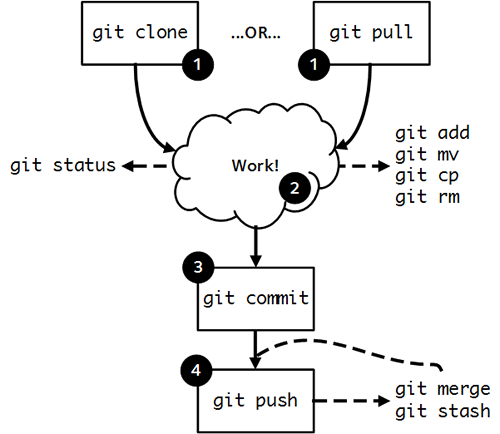
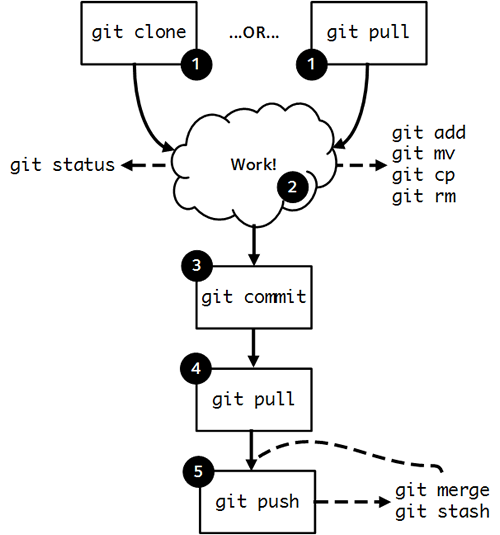
Updating Git chapter

Changed region(s): [[0.0, 0.0, 0.99, 1.0], [0.45, 0.03, 0.57, 0.0899]]

diff --git a/manuscript/chapter-git.md b/manuscript/chapter-git.md
@@ -211,157 +211,64 @@ T> Although frequent commits may be a good thing, you will want to ensure that w
 
 ### 4. Synchronising your Repository
 
-After you've committed your local repository and committed your changes,
-you're just about ready to send your commits to the remote repository by
-*pushing* your changes. However, what if someone within your group
-pushes their changes before you do? This means your local repository
-will be out of sync with the remote repository, making any `git push`
-command very difficult to do!
+After you've committed your local repository and committed your changes, you're just about ready to send your commit(s) to the remote repository by *pushing* your changes. However, what if someone within your group pushes their changes before you do? This means your local repository will be out of sync with the remote repository, meaning that any `git push` command that you issue will fail.
 
-It's therefore always a good idea to check whether changes have been
-made on the remote repository before updating it. Running a `git pull`
-command will pull down any changes from the remote repository, and
-attempt to place them within your local repository. If no changes have
-been made, you're clear to push your changes. If changes have been made
-and cannot be easily rectified, you'll need to do a little bit more
-work.
+It's therefore always a good idea to check whether changes have been made on the remote repository before updating it. Running a `git pull` command will pull down any changes from the remote repository, and attempt to place them within your local repository. If no changes have been made, you're clear to push your changes. If changes have been made and cannot be easily rectified, you'll need to do a little bit more work.
 
-In scenarios such as this, you have the option to *merge* changes from
-the remote repository. After running the `git pull` command, a text
-editor will appear in which you can add a comment explaining why the
-merge is necessary. Upon saving the text document, Git will merge the
-changes in the remote repository to your local repository.
+In scenarios such as this, you have the option to *merge* changes from the remote repository. After running the `git pull` command, a text editor will appear in which you can add a comment explaining why the merge is necessary. Upon saving the text document, Git will merge the changes from the remote repository to your local repository.
 
-> **note**
->
-> If you do see a text editor on your Mac or Linux installation, it's
-> probably the [vi](http://en.wikipedia.org/wiki/Vi) text editor. If
-> you've never used vi before, check out [this helpful page containing a
-> list of basic commands](http://www.cs.colostate.edu/helpdocs/vi.html)
-> on the Colorado State University Computer Science Department website.
-> If you don't like vi, [you can change the default text
-> editor](http://git-scm.com/book/en/Customizing-Git-Git-Configuration#Basic-Client-Configuration)
-> that Git calls upon. Windows installations most likely will bring up
-> Notepad.
+T> ### Editing Merge Logs
+T> If you do see a text editor on your Mac or Linux installation, it's probably the [`vi`](http://en.wikipedia.org/wiki/Vi) text editor. If you've never used vi before, check out [this helpful page containing a list of basic commands](http://www.cs.colostate.edu/helpdocs/vi.html) on the Colorado State University Computer Science Department website. If you don't like vi, [you can change the default text editor](http://git-scm.com/book/en/Customizing-Git-Git-Configuration#Basic-Client-Configuration) that Git calls upon. Windows installations most likely will bring up Notepad.
 
 ### 5. Pushing your Commit(s)
 
-*Pushing* is the phrase used by Git to describe the sending of any
-changes in your local repository to the remote repository. This is the
-way in which your changes become available to your other team members,
-who can then retrieve them by running the `git pull` command in their
-respective local workspaces. The `git push` command isn't invoked as
-often as committing - *you require one or more commits to perform a
-push.* You could aim for one push per day, when a particular feature is
-completed, or at the request of a team member who is desperately after
-your updated code.
+*Pushing* is the phrase used by Git to describe the sending of any changes in your local repository to the remote repository. This is the way in which your changes become available to your other team members, who can then retrieve them by running the `git pull` command in their respective local workspaces. The `git push` command isn't invoked as often as committing - *you require one or more commits to perform a push.* You could aim for one push per day, when a particular feature is completed, or at the request of a team member who is after your updated code.
 
 To push your changes, the simplest command to run is:
 
-`$ git push origin master`
+{lang="text",linenos=off}
+    $ git push origin master
 
-As explained on [this Stack Overflow question and answer
-page](http://stackoverflow.com/questions/7311995/what-is-git-push-origin-master-help-with-gits-refs-heads-and-remotes),
-this command instructs the `git push` command to push your local master
-branch (where your changes are saved) to the *origin* (the remote server
-from which you originally cloned). If you are using a more complex setup
-involving [branching and
-merging](http://git-scm.com/book/en/Git-Branching-Basic-Branching-and-Merging),
-alter `master` to the name of the branch you wish to push.
+As explained on [this Stack Overflow question and answer page](http://stackoverflow.com/questions/7311995/what-is-git-push-origin-master-help-with-gits-refs-heads-and-remotes) this command instructs the `git push` command to push your local master branch (where your changes are saved) to the *origin* (the remote server from which you originally cloned). If you are using a more complex setup involving [branching and merging](http://git-scm.com/book/en/Git-Branching-Basic-Branching-and-Merging), alter `master` to the name of the branch you wish to push.
 
-If what you are pushing is particularly important, you can also
-optionally alert other team members to the fact they should really
-update their local repositories by pulling your changes. You can do this
-through a *pull request.* Issue one after pushing your latest changes by
-invoking the command `git request-pull master`, where master is your
-branch name (this is the default value). If you are using a service such
-as GitHub, the web interface allows you to generate requests without the
-need to enter the command. Check out [the official GitHub website's
-tutorial](https://help.github.com/articles/using-pull-requests) for more
-information.
+T> ### Important Push?
+T> If your `git push` is particularly important, you can also alert other team members to the fact they should really update their local repositories by pulling your changes. You can do this through a *pull request.* Issue one after pushing your latest changes by invoking the command `git request-pull master`, where master is your branch name (this is the default value). If you are using a service such as GitHub, the web interface allows you to generate requests without the need to enter the command. Check out [the official GitHub website's tutorial](https://help.github.com/articles/using-pull-requests) for more information.
 
 ## Recovering from Mistakes
 
-This section presents a solution to a coder's worst nightmare: what if
-you find that your code no longer works? Perhaps a refactoring went
-terribly wrong, someone changed something, or everything is so terribly
-messed up you have no idea what happened. Whatever the reason, using a
-form of version control always gives you a last resort: rolling back to
-a previous commit. This section details how to do just that. We follow
-the information given from [this Stack
-Overflow](http://stackoverflow.com/questions/2007662/rollback-to-an-old-commit-using-git)
-question and answer page.
+This section presents a solution to a coder's worst nightmare: what if you find that your code no longer works? Perhaps a refactoring went terribly wrong, or something was changed by another team member without discussion. Whatever the reason, using a form of version control always gives you a last resort: rolling back to a previous commit. This section details how to do just that. We follow the information given from [this Stack Overflow](http://stackoverflow.com/questions/2007662/rollback-to-an-old-commit-using-git) question and answer page.
 
-> **warning**
->
-> You should be aware that this guide will rollback your workspace to a
-> previous iteration. Any uncommitted changes that you have made will be
-> lost, with a very slim chance of recovery! Be wary. If you are having
-> a problem with only one file, you could always view the different
-> versions of the files for comparison. Have a look [at this Stack
-> Overflow page](http://stackoverflow.com/a/3338145) to see how to do
-> that.
+W> ### Changes may be Lost!
+W> You should be aware that this guide will rollback your workspace to a previous iteration. Any uncommitted changes that you have made will be lost, with a very slim chance of recovery! Be wary. If you are having a problem with only one file, you could always view the different versions of the files for comparison. Have a look [at this Stack Overflow page](http://stackoverflow.com/a/3338145) to see how to do that.
 
-Rolling back your workspace to a previous commit involves two distinct
-steps:
+Rolling back your workspace to a previous commit involves two steps: determining which commit to roll back to, an performing the rollback. To determine what commit to rollback to, you can make use of the `git log` command. Issuing this command within your workspace directory will provide a list of recent commits that you made, your name and the date at which you made the commit. Additionally, the message that is stored with each commit is displayed. This is where it is highly beneficial to supply commit messages that provide enough information to explain what is going on. Check out the following output from a `git log` invocation below to see for yourself.
 
--   determining which commit to roll back to; and
--   performing the rollback.
-
-To determine what commit to rollback to, you can make use of the
-`git log` command. Issuing this command within your workspace directory
-will provide a list of recent commits that you made, your name and the
-date at which you made the commit. Additionally, the message that is
-stored with each commit is displayed. This is where it is highly
-beneficial to supply commit messages that provide enough information to
-explain what is going on. Check out the following output from a
-`git log` invocation below to see for yourself.
-
+{lang="text",linenos=off}
     commit 88f41317640a2b62c2c63ca8d755feb9f17cf16e                      <- Commit hash
     Author: John Doe <someaddress@domain.com>                            <- Author
     Date:   Mon Jul 8 19:56:21 2013 +0100                                <- Date/time
-
         Nearly finished initial version of the requirements chapter      <- Message
-
     commit f910b7d557bf09783b43647f02dd6519fa593b9f
     Author: John Doe <someaddress@domain.com>
     Date:   Wed Jul 3 11:35:01 2013 +0100
-
         Added in the Git figures to the requirements chapter.
-
     commit c97bb329259ee392767b87cfe7750ce3712a8bdf
     Author: John Doe <someaddress@domain.com>
     Date:   Tue Jul 2 10:45:29 2013 +0100
-
         Added initial copy of Sphinx documentation and tutorial code.
-
     commit 2952efa9a24dbf16a7f32679315473b66e3ae6ad
     Author: John Doe <someaddress@domain.com>
     Date:   Mon Jul 1 03:56:53 2013 -0700
-
         Initial commit
 
-From this list, you can choose a commit to rollback to. For the selected
-commit, you must take the commit hash - the long string of letters and
-numbers. To demonstrate, the top (or HEAD) commit hash in the example
-output above is `88f41317640a2b62c2c63ca8d755feb9f17cf16e`. You can
-select this in your terminal and copy it to your computer's clipboard.
+From this list, you can choose a commit to rollback to. For the selected commit, you must take the commit hash - the long string of letters and numbers. To demonstrate, the top (or HEAD) commit hash in the example output above is `88f41317640a2b62c2c63ca8d755feb9f17cf16e`. You can select this in your terminal and copy it to your computer's clipboard.
 
-With your commit hash selected, you can now rollback your workspace to
-the previous revision. You can do this with the `git checkout` command.
-The following example command would rollback to the commit with hash
-`88f41317640a2b62c2c63ca8d755feb9f17cf16e`.
+With your commit hash selected, you can now rollback your workspace to the previous revision. You can do this with the `git checkout` command. The following example command would rollback to the commit with hash `88f41317640a2b62c2c63ca8d755feb9f17cf16e`.
 
-`$ git checkout 88f41317640a2b62c2c63ca8d755feb9f17cf16e .`
+{lang="text",linenos=off}
+    $ git checkout 88f41317640a2b62c2c63ca8d755feb9f17cf16e .
 
-Make sure that you run this command from the root of your workspace, and
-do not forget to include the dot at the end of the command! The dot
-indicates that you want to apply the changes to the entire workspace
-directory tree. After this has completed, you should then immediately
-commit with a message indicating that you performed a rollback. Push
-your changes and alert your team members. From there, you can start to
-recover from the mistake by putting your head down and getting on with
-your project.
+Make sure that you run this command from the root of your workspace, and do not forget to include the dot at the end of the command! The dot indicates that you want to apply the changes to the entire workspace directory tree. After this has completed, you should then immediately commit with a message indicating that you performed a rollback. Push your changes and alert your team members. From there, you can start to recover from the mistake by putting your head down and getting on with your project.
 
 X> ### Exercises
 X> If you haven't undertaken what we've been discussing in this chapter already, you should go through everything now to ensure your system and repository is ready to go.
